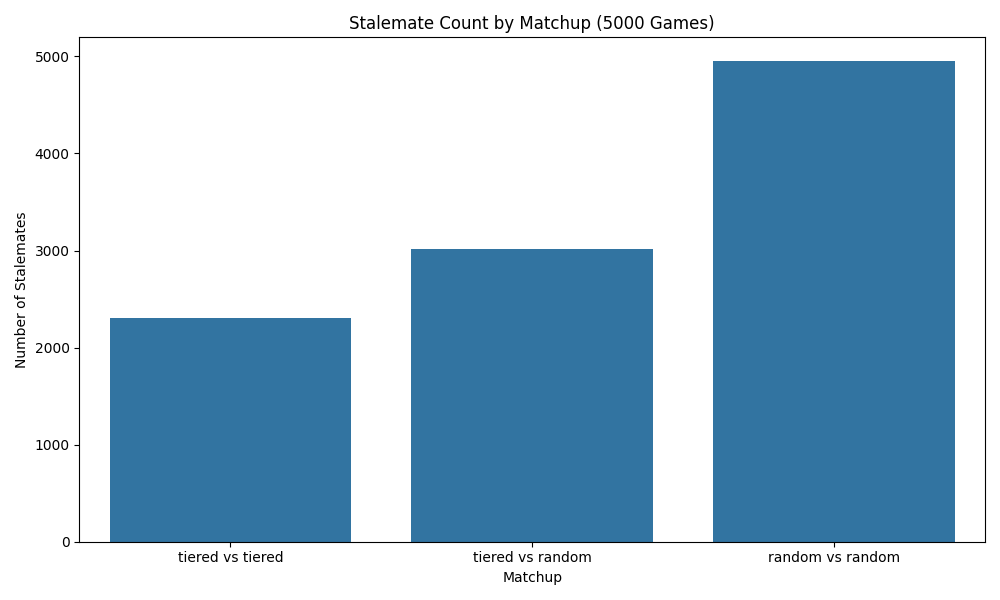
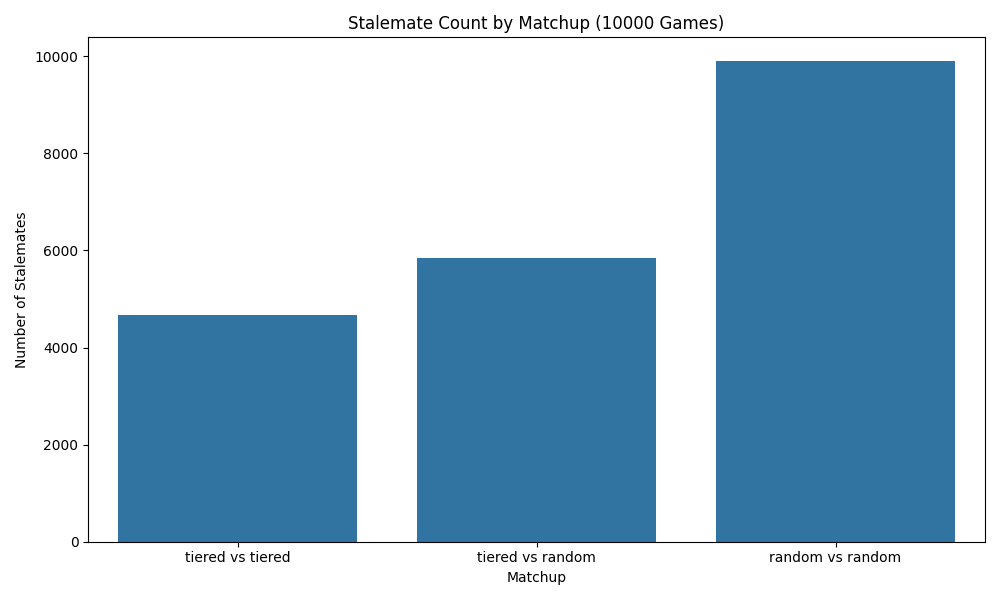
Update Volta ao Mundo simulation rules and run 10k iterations
- Increase simulation iterations to 10,000 per matchup.
- Confirm Orientação card count reduction to 10.
- Confirm Orientação is not required for general movement.
- Update simulation results and plots.

diff --git a/volta_ao_mundo.py b/volta_ao_mundo.py
@@ -227,9 +227,9 @@ def run_matchup(strat1, strat2, iterations=5000):
 if __name__ == "__main__":
     print("Running simulations...")
     results = [
-        run_matchup('tiered', 'tiered', 5000),
-        run_matchup('tiered', 'random', 5000),
-        run_matchup('random', 'random', 5000)
+        run_matchup('tiered', 'tiered', 10000),
+        run_matchup('tiered', 'random', 10000),
+        run_matchup('random', 'random', 10000)
     ]
     df = pd.DataFrame(results)
     print("\n--- Simulation Results ---")
@@ -242,7 +242,7 @@ if __name__ == "__main__":
     # 1. Stalemate Rates
     plt.figure(figsize=(10, 6))
     sns.barplot(x='Matchup', y='Stalemates', data=df)
-    plt.title('Stalemate Count by Matchup (5000 Games)')
+    plt.title('Stalemate Count by Matchup (10000 Games)')
     plt.ylabel('Number of Stalemates')
     plt.tight_layout()
     plt.savefig('stalemate_comparison.png')
